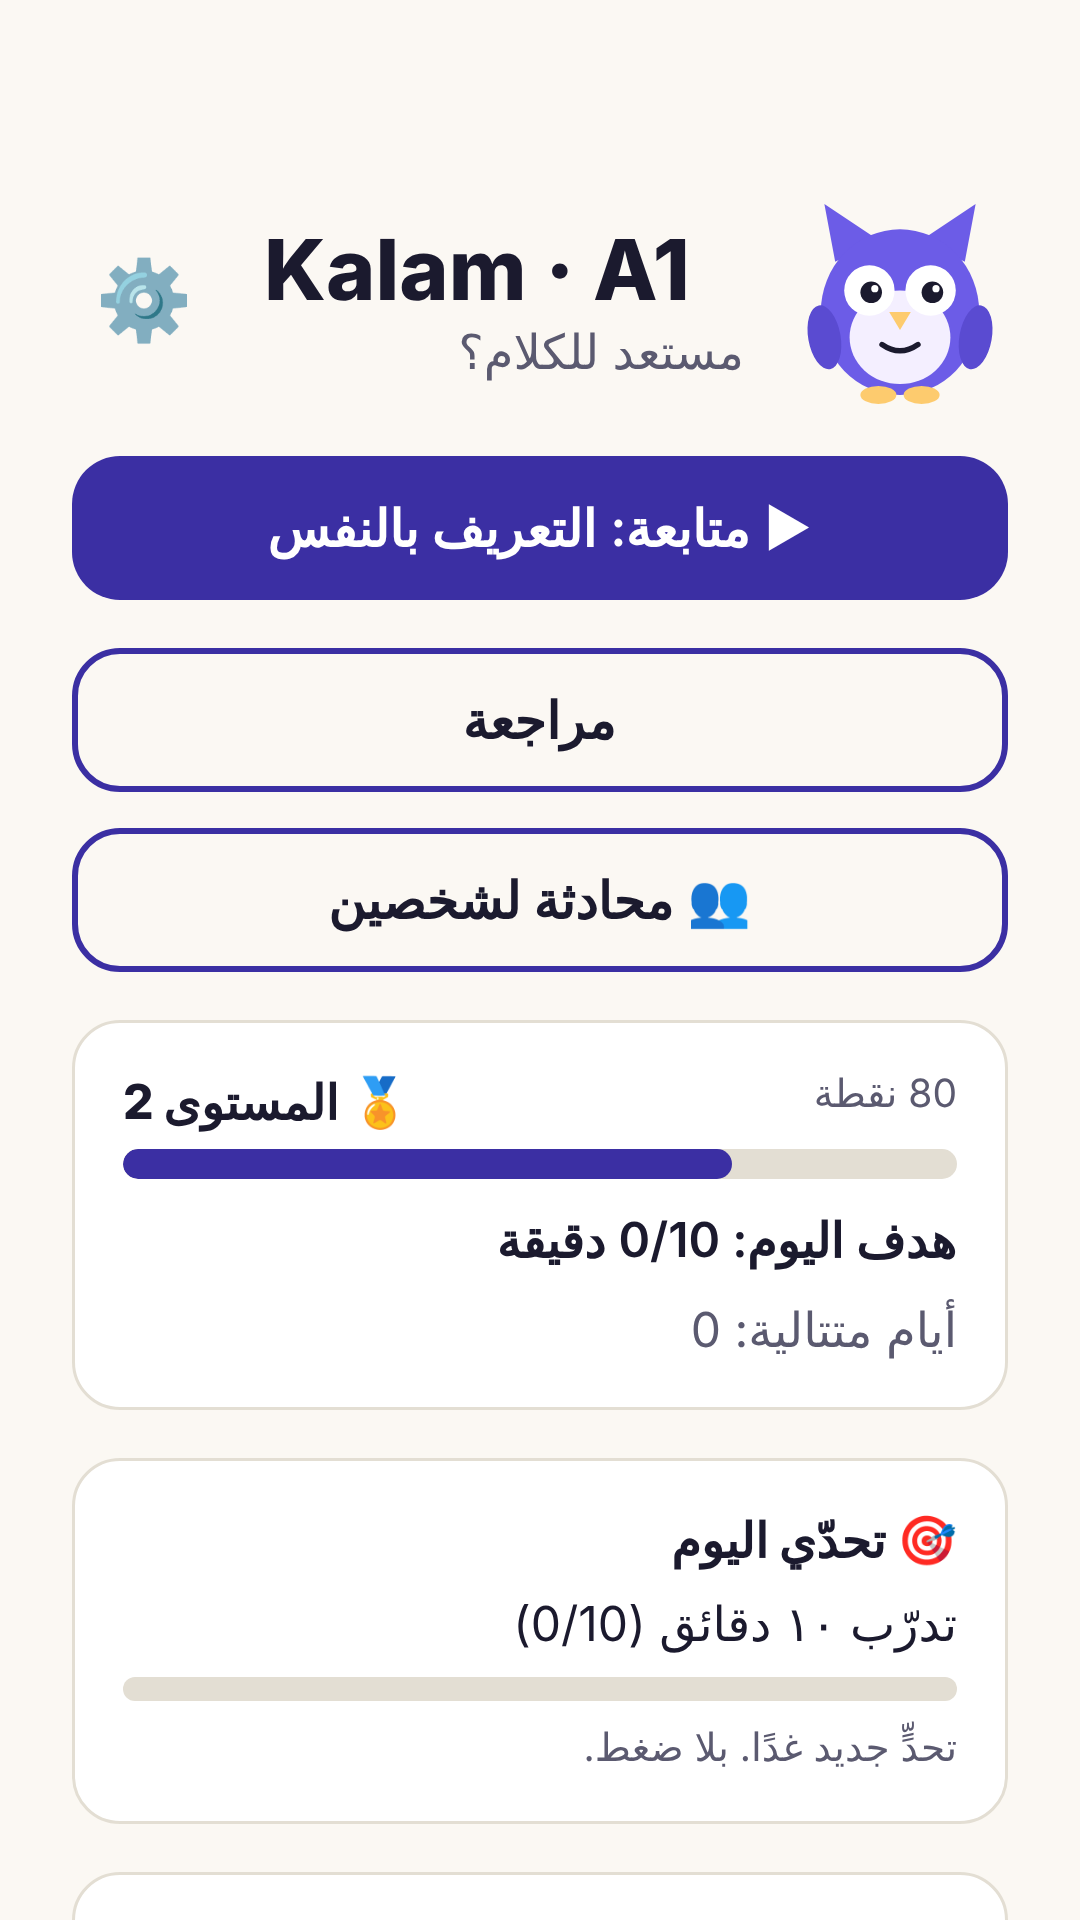
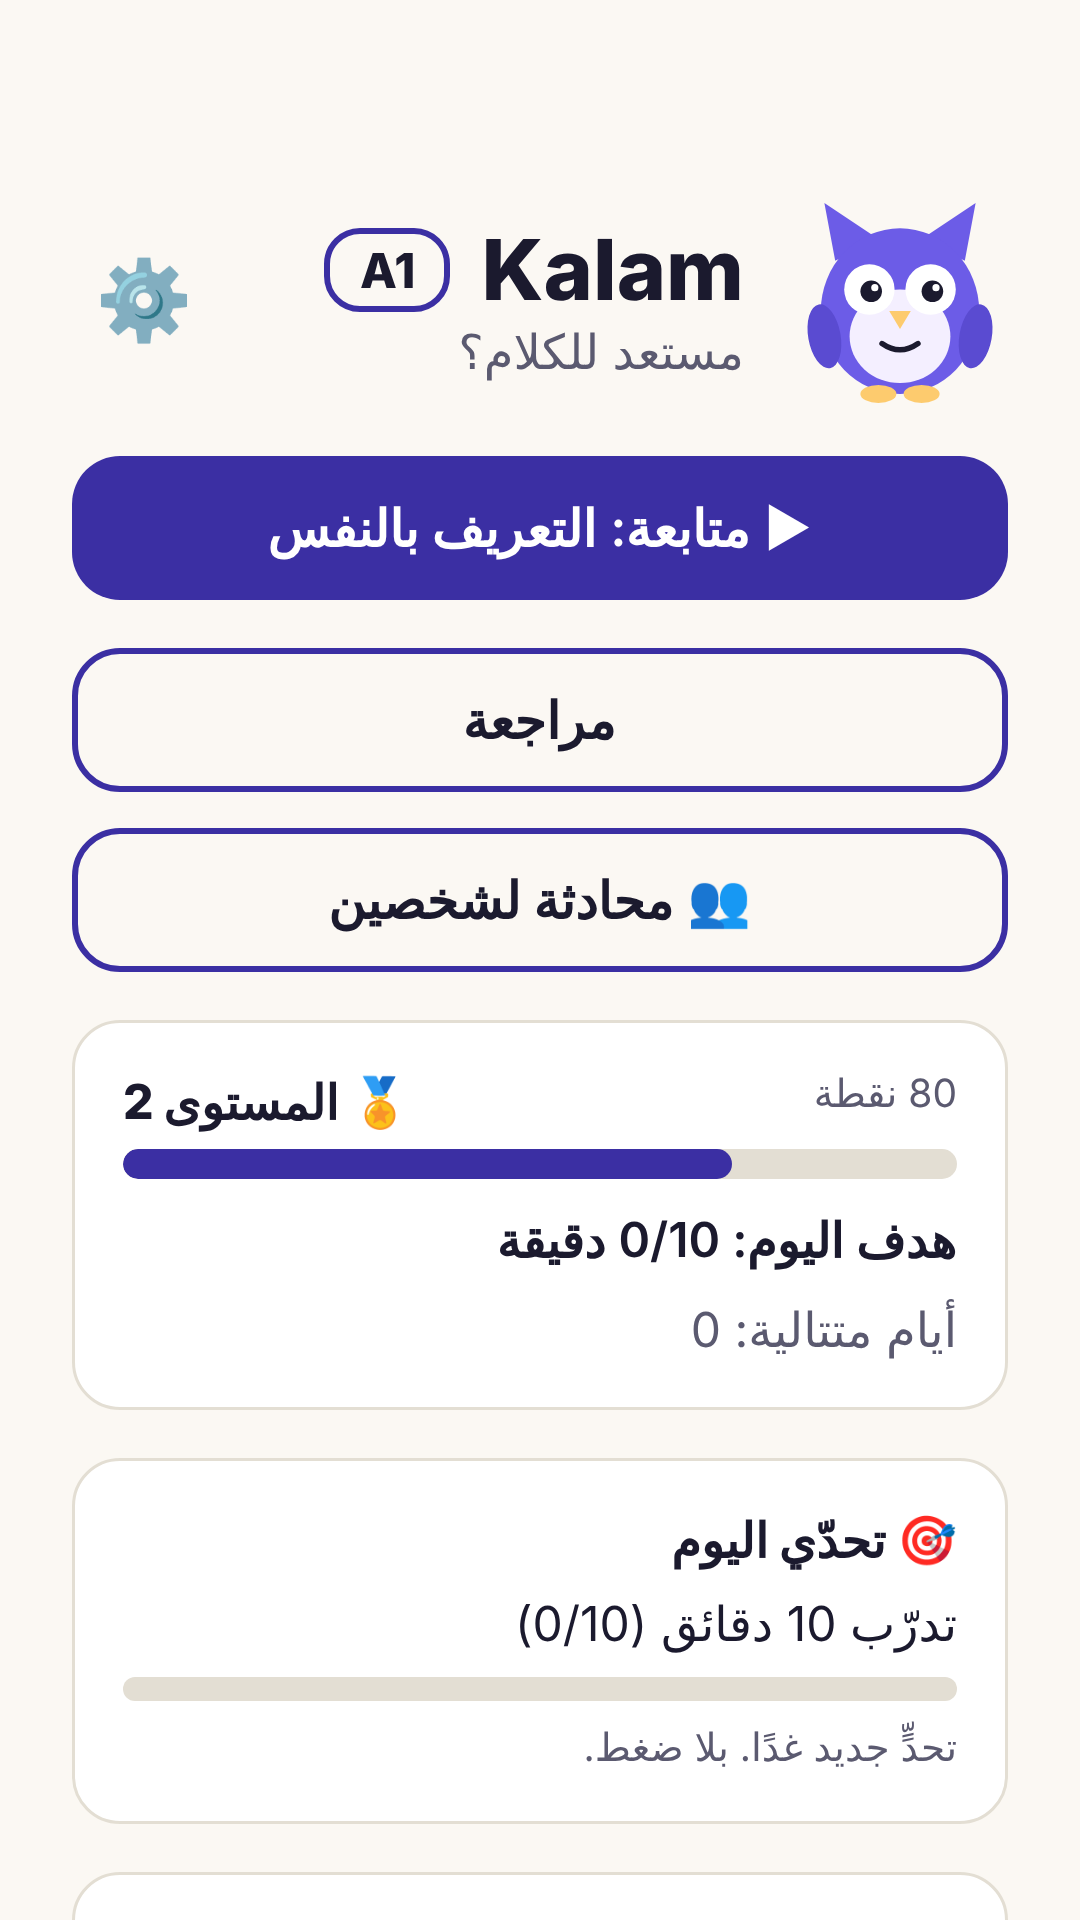
Accueil: « Kalam » puis le niveau dans une pastille (avec de gros caractères, « · A1 » n'est plus coupé); captures de la fiche Play régénérées
Claude-Session: https://claude.ai/code/session_011NcysNX3SCJTgQdB21kJE4

diff --git a/kalam/src/screens/HomeScreen.tsx b/kalam/src/screens/HomeScreen.tsx
@@ -46,7 +46,14 @@ export function HomeScreen({ lang, level, progress: storedProgress, onOpenLesson
       <View style={{ flexDirection: rtl ? 'row-reverse' : 'row', alignItems: 'center', gap: 16 }}>
         <Mascot mood={goalReached(progress) ? 'cheer' : 'happy'} size={profile.id === 'kids' ? 120 : 72} />
         <View style={{ flex: 1 }}>
-          <KText size={28} weight="800" accessibilityRole="header">Kalam · {level}</KText>
+          {/* « Kalam » puis le niveau dans une pastille: avec de gros caractères (seniors), le niveau passe à la ligne entier au lieu de couper « · A1 » */}
+          <View accessible accessibilityRole="header" accessibilityLabel={`Kalam · ${level}`}
+            style={{ flexDirection: rtl ? 'row-reverse' : 'row', flexWrap: 'wrap', alignItems: 'center', columnGap: 10, rowGap: 4 }}>
+            <KText size={28} weight="800">Kalam</KText>
+            <View style={{ borderWidth: 2, borderColor: colors.primary, borderRadius: 12, paddingHorizontal: 10, paddingVertical: 2 }}>
+              <KText size={16} weight="800">{level}</KText>
+            </View>
+          </View>
           <KText muted>{t(lang, 'hello')}</KText>
         </View>
         <Pressable accessibilityRole="button" accessibilityLabel={t(lang, 'settings')} onPress={onSettings}
